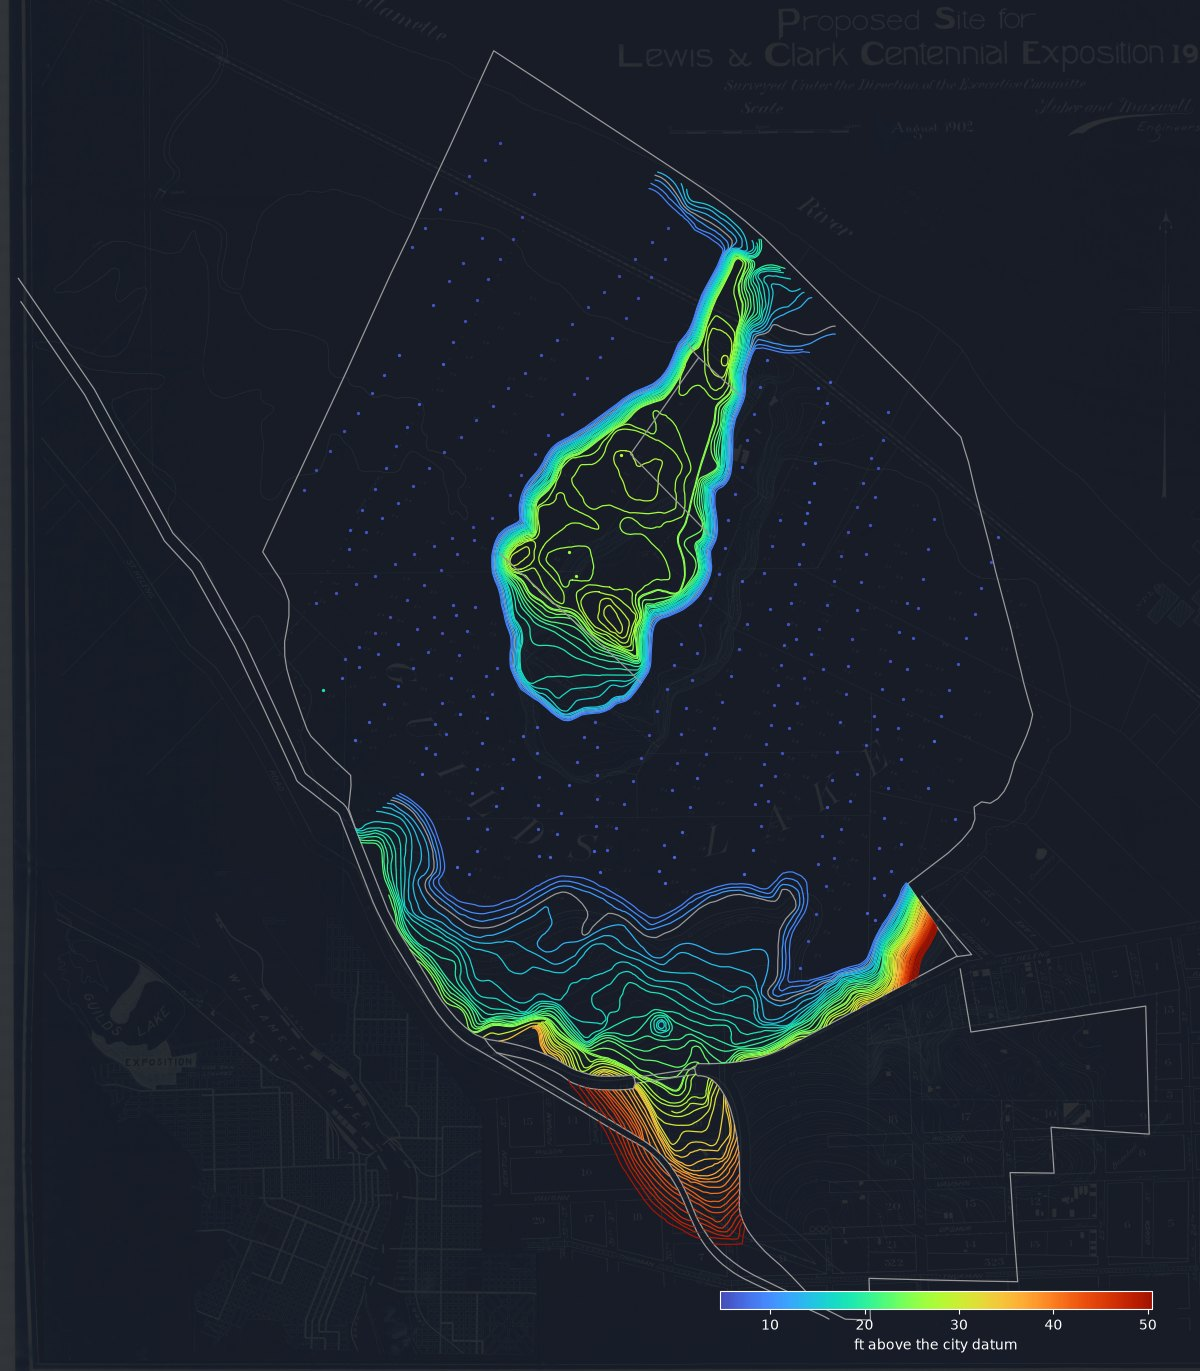
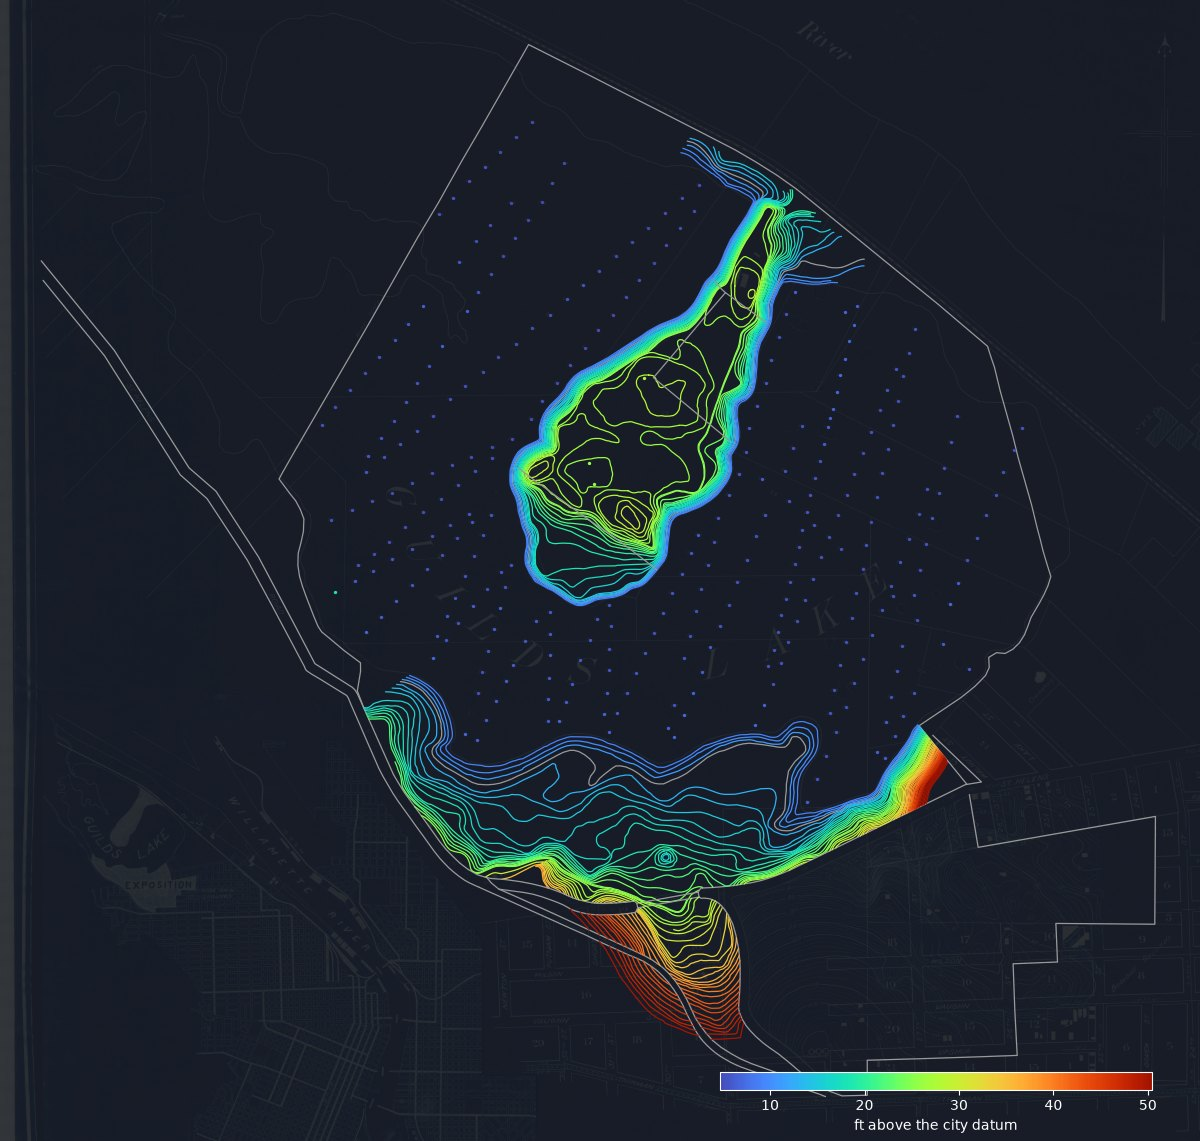
Blender relief pipeline; Huber card on the current plan 9 georeference
- relief_prep.py: the whole sheet as flat paper with only its surveyed ground
  raised (16-bit height map in the sheet's own frame, eased to the paper at
  the footprint edge, slope-capped). Huber's relief is interpolated from its
  own traced lines and soundings only; untraced ground stays paper.
- relief_render.py: headless Blender Cycles render, scan as the surface, low
  sun from the sheet's upper left, orthographic straight down.
- topo_cards.py: Huber now uses the 14-corner .p6fit.points fit the traces
  were made on (the old 3-GCP file shifted the lake end); Huber card
  re-rendered.
- build/ ignored (relief intermediates).

diff --git a/scripts/figures/relief_prep.py b/scripts/figures/relief_prep.py
@@ -1,0 +1,136 @@
+r"""Inputs for the Blender relief renders: the whole survey sheet as a flat sheet of paper, with only the ground it
+surveys rising out of it.
+
+    python scripts/figures/relief_prep.py <survey_id> [--width 4096] [--feather 150] [--bevel 0.12]
+
+Writes to build/relief/<id>/ (ignored by git):
+  texture.jpg     the sheet as printed (whole sheet, at most 8192 px wide)
+  height.png      16-bit height map on the same frame: 0 = the paper, 65535 = the highest ground
+  relief.json     sheet size in feet, height range, the paper's level on the city datum, how it was made
+The height is the survey's reconstructed ground (topo_cards.SURFACES) inside its footprint, measured up from the
+lowest ground there (so the lake bed / lowest contour sits on the paper), and eased down to the paper over the last
+`feather` feet inside the footprint, and nowhere steeper than `bevel` from the edge, so the survey doesn't stand on
+a cliff where its footprint cuts across high ground. Everything outside stays flat paper.
+Use relief_render.py to render it.
+"""
+import argparse
+import json
+import sys
+from pathlib import Path
+
+import cv2
+import numpy as np
+from PIL import Image
+from pyogrio.raw import read
+from shapely import from_wkb
+
+sys.path.insert(0, str(Path(__file__).resolve().parent))
+import topo_cards as TC  # noqa: E402  the scans, their georeferences and the surfaces
+
+Image.MAX_IMAGE_PIXELS = None
+BUILD = TC.S.HERE / "build" / "relief"
+OWN_LINES = {"huber_1902"}   # surveys whose relief is interpolated straight from their own traced lines and heights
+                             # (Huber's part of combined_dem predates the re-fitted plan 9 georeference)
+NEAR_FT = 300               # how far from a traced line or height the interpolated ground may reach
+SURFACE_KINDS = {"contour", "index", "intermediate", "sounding", "spot"}
+
+
+def from_own_lines(sid, A, k, W, H):
+    """Ground interpolated (linear, Delaunay) from the survey's contours and spot heights, in height-map pixels."""
+    from pyogrio import list_layers
+    from scipy.interpolate import LinearNDInterpolator
+    Ai = np.linalg.inv(np.vstack([A, [0, 0, 1]]))[:2]
+    pts, zs = [], []
+    for L, _ in list_layers(TC.GPKG):
+        if not L.startswith(sid):
+            continue
+        m, _, g, d = read(TC.GPKG, layer=L)
+        f = dict(zip(m["fields"], d))
+        for q, e, kd in zip(from_wkb(g), f["elev_city"], f["kind"]):
+            if e is None or not np.isfinite(e) or kd not in SURFACE_KINDS:
+                continue
+            for part in getattr(q, "geoms", [q]):
+                if part.geom_type == "Point":
+                    xy = np.array([[part.x, part.y]])
+                else:                                        # densify every ~8 ft along the line
+                    n = max(2, int(part.length / 8))
+                    xy = np.array([part.interpolate(t, normalized=True).coords[0] for t in np.linspace(0, 1, n)])
+                pts.append((xy @ Ai[:, :2].T + Ai[:, 2]) / k)
+                zs.append(np.full(len(xy), float(e)))
+    P, Z = np.vstack(pts), np.concatenate(zs)
+    f2 = 2                                                   # interpolate at half resolution, then scale up
+    gx, gy = np.meshgrid((np.arange(W // f2) + 0.5) * f2, (np.arange(H // f2) + 0.5) * f2)
+    z = LinearNDInterpolator(P, Z)(gx, gy).astype(np.float32)
+    ok = np.isfinite(z)
+    zf = cv2.GaussianBlur(np.where(ok, z, 0), (0, 0), 2.0) / np.maximum(cv2.GaussianBlur(ok.astype(np.float32), (0, 0), 2.0), 1e-6)
+    z = np.where(ok, zf, np.nan)                             # soften the flat Delaunay terraces between contours
+    z = cv2.resize(z, (W, H), interpolation=cv2.INTER_LINEAR)
+    # only near what was traced: the triangulation's long edges across untraced ground are not the survey
+    seen = np.full((H, W), 255, np.uint8)
+    ij = np.round(P).astype(int)
+    ok = (ij[:, 0] >= 0) & (ij[:, 0] < W) & (ij[:, 1] >= 0) & (ij[:, 1] < H)
+    seen[ij[ok, 1], ij[ok, 0]] = 0
+    near = cv2.distanceTransform(seen, cv2.DIST_L2, 5) * np.hypot(A[0, 0], A[1, 0]) * k <= NEAR_FT
+    return np.where(near, z, np.nan)
+
+
+def prep(sid, width, feather_ft, bevel):
+    img, kind, ref, dx, dy = TC.SCANS[sid]
+    A = TC.affine_from(kind, ref, 1)
+    A[:, 2] += (dx, dy)                                      # sheet (col, row, 1) -> (E, N)
+    w, h = Image.open(img).size
+    out = BUILD / sid
+    out.mkdir(parents=True, exist_ok=True)
+    # texture: the whole sheet
+    a = cv2.imread(str(img), cv2.IMREAD_COLOR)
+    if a.shape[1] > 8192:
+        a = cv2.resize(a, (8192, round(a.shape[0] * 8192 / a.shape[1])), interpolation=cv2.INTER_AREA)
+    cv2.imwrite(str(out / "texture.jpg"), a, [cv2.IMWRITE_JPEG_QUALITY, 92])
+    del a
+    # height map on the sheet's own pixel frame
+    W = min(width, w)
+    H = round(h * W / w)
+    k = w / W                                                # sheet pixels per height-map pixel
+    jj, ii = np.meshgrid((np.arange(W) + 0.5) * k, (np.arange(H) + 0.5) * k)
+    gx = (A[0, 0] * jj + A[0, 1] * ii + A[0, 2]).astype(np.float32)
+    gy = (A[1, 0] * jj + A[1, 1] * ii + A[1, 2]).astype(np.float32)
+    if sid in OWN_LINES:                                     # only what is traced on this sheet rises; untraced ground
+        z = from_own_lines(sid, A, k, W, H)                  # stays paper until it is traced
+    else:
+        z = np.full((H, W), np.nan, np.float32)
+        for name, dz in TC.SURFACES[sid]:
+            z = np.where(np.isfinite(z), z, TC.sample(name, gx, gy) - dz)
+    m, _, g, d = read(TC.GPKG, layer="surveys")
+    fps = dict(zip(dict(zip(m["fields"], d))["survey_id"], from_wkb(g)))
+    Ai = np.linalg.inv(np.vstack([A, [0, 0, 1]]))[:2]
+    mk = np.zeros((H, W), np.uint8)
+    cr = (np.asarray(fps[sid].exterior.coords) @ Ai[:, :2].T + Ai[:, 2]) / k
+    cv2.fillPoly(mk, [cr.round().astype(np.int32)], 1)
+    inside = (mk > 0) & np.isfinite(z)
+    ft_px = np.hypot(A[0, 0], A[1, 0]) * k                   # feet per height-map pixel
+    base = float(np.percentile(z[inside], 0.5))
+    rel = np.where(inside, np.clip(z - base, 0, None), 0).astype(np.float32)
+    dist = cv2.distanceTransform(inside.astype(np.uint8), cv2.DIST_L2, 5) * ft_px
+    t = np.clip(dist / feather_ft, 0, 1)
+    rel *= t * t * (3 - 2 * t)                               # smoothstep down to the paper at the footprint edge
+    rel = np.minimum(rel, dist * bevel)                      # and where the edge cuts high ground, a bevel no steeper
+                                                             # than `bevel` (rise per foot) instead of a cliff
+    rel = cv2.GaussianBlur(rel, (0, 0), 0.7)
+    top = float(rel.max())
+    cv2.imwrite(str(out / "height.png"), np.round(rel / top * 65535).astype(np.uint16))
+    meta = {"survey_id": sid, "sheet_px": [w, h], "height_px": [W, H], "ft_per_height_px": ft_px,
+            "sheet_ft": [w * ft_px / k, h * ft_px / k], "relief_ft": top, "paper_level_city_ft": base,
+            "feather_ft": feather_ft, "bevel": bevel, "surfaces": "own traced lines" if sid in OWN_LINES else TC.SURFACES[sid]}
+    (out / "relief.json").write_text(json.dumps(meta, indent=1))
+    print(sid, f"sheet {meta['sheet_ft'][0]:.0f} x {meta['sheet_ft'][1]:.0f} ft; relief {top:.0f} ft above "
+          f"{base:.1f}; height map {W}x{H}")
+
+
+if __name__ == "__main__":
+    ap = argparse.ArgumentParser()
+    ap.add_argument("survey_id")
+    ap.add_argument("--width", type=int, default=4096)
+    ap.add_argument("--feather", type=float, default=150.0)
+    ap.add_argument("--bevel", type=float, default=0.12)
+    a = ap.parse_args()
+    prep(a.survey_id, a.width, a.feather, a.bevel)

diff --git a/scripts/figures/relief_render.py b/scripts/figures/relief_render.py
@@ -1,0 +1,126 @@
+r"""Render a survey sheet as shaded relief in Blender (Cycles), straight down, from relief_prep.py's inputs.
+
+    "C:\Program Files\Blender Foundation\Blender 5.2\blender.exe" -b -P scripts/figures/relief_render.py -- <survey_id>
+        [--vex 3] [--sun-alt 30] [--sun-az 315] [--width 3000] [--samples 96] [--mesh 1800] [--out PATH]
+
+The sheet is a plane at true proportions with the scan as its surface; build/relief/<id>/height.png pushes up only
+the surveyed ground (the rest is flat paper). A low sun from the sheet's upper left (--sun-az is measured clockwise
+from the top of the sheet, so 315 = upper left) rakes across it and a faint sky fills the shadows; the orthographic
+camera looks straight down. Colours are kept as printed (Standard view transform). Writes
+topography/renders/<id>-relief.jpg unless --out is given.
+"""
+import json
+import math
+import sys
+from pathlib import Path
+
+import bpy
+from mathutils import Vector
+
+HERE = Path(__file__).resolve().parents[2]
+args = sys.argv[sys.argv.index("--") + 1:] if "--" in sys.argv else []
+sid = args[0]
+opt = {"--vex": 3.0, "--sun-alt": 30.0, "--sun-az": 315.0, "--width": 3000, "--samples": 96, "--mesh": 1800,
+       "--out": str(HERE / "topography" / "renders" / f"{sid}-relief.jpg")}
+for i in range(1, len(args) - 1, 2):
+    opt[args[i]] = type(opt[args[i]])(args[i + 1])
+src = HERE / "build" / "relief" / sid
+meta = json.loads((src / "relief.json").read_text())
+
+# a clean scene
+bpy.ops.wm.read_factory_settings(use_empty=True)
+scene = bpy.context.scene
+U = 1000.0                                                   # feet per Blender unit
+Wp, Hp = meta["sheet_ft"][0] / U, meta["sheet_ft"][1] / U
+
+# the sheet: a UV'd grid, displaced by the height map, scan as its colour
+nx = int(opt["--mesh"])
+ny = max(2, round(nx * Hp / Wp))
+bpy.ops.mesh.primitive_grid_add(x_subdivisions=nx, y_subdivisions=ny, size=1, calc_uvs=True)
+sheet = bpy.context.active_object
+sheet.scale = (Wp, Hp, 1)
+bpy.ops.object.transform_apply(scale=True)
+hmap = bpy.data.images.load(str(src / "height.png"))
+hmap.colorspace_settings.name = "Non-Color"
+tex = bpy.data.textures.new("height", type="IMAGE")
+tex.image = hmap
+tex.extension = "EXTEND"
+tex.use_interpolation = True
+mod = sheet.modifiers.new("relief", "DISPLACE")
+mod.texture = tex
+mod.texture_coords = "UV"
+mod.mid_level = 0.0
+mod.direction = "Z"
+mod.strength = opt["--vex"] * meta["relief_ft"] / U
+bpy.ops.object.shade_smooth()
+
+mat = bpy.data.materials.new("sheet")
+mat.use_nodes = True
+nt = mat.node_tree
+bsdf = nt.nodes["Principled BSDF"]
+img = nt.nodes.new("ShaderNodeTexImage")
+img.image = bpy.data.images.load(str(src / "texture.jpg"))
+img.interpolation = "Cubic"
+nt.links.new(img.outputs["Color"], bsdf.inputs["Base Color"])
+bsdf.inputs["Roughness"].default_value = 0.9
+for name in ("Specular IOR Level", "Specular"):
+    if name in bsdf.inputs:
+        bsdf.inputs[name].default_value = 0.15
+        break
+sheet.data.materials.append(mat)
+
+# light: a low sun from the sheet's upper left, soft-edged; a faint even sky for the shadows
+alt, az = math.radians(opt["--sun-alt"]), math.radians(opt["--sun-az"])
+toward = Vector((math.sin(az) * math.cos(alt), math.cos(az) * math.cos(alt), math.sin(alt)))   # to the sun (y = sheet top)
+sun_data = bpy.data.lights.new("sun", type="SUN")
+sun_data.energy = 3.6
+sun_data.angle = math.radians(3.0)
+sun = bpy.data.objects.new("sun", sun_data)
+scene.collection.objects.link(sun)
+sun.rotation_euler = toward.to_track_quat("Z", "Y").to_euler()        # the lamp shines down its -Z
+world = bpy.data.worlds.new("sky")
+world.use_nodes = True
+world.node_tree.nodes["Background"].inputs["Color"].default_value = (1, 1, 1, 1)
+world.node_tree.nodes["Background"].inputs["Strength"].default_value = 0.42
+scene.world = world
+
+# camera: orthographic, straight down, framing the sheet exactly
+cam_data = bpy.data.cameras.new("cam")
+cam_data.type = "ORTHO"
+cam_data.ortho_scale = max(Wp, Hp)
+cam_data.clip_end = 100
+cam = bpy.data.objects.new("cam", cam_data)
+cam.location = (0, 0, 20)
+scene.collection.objects.link(cam)
+scene.camera = cam
+r = scene.render
+r.resolution_x = int(opt["--width"])
+r.resolution_y = round(int(opt["--width"]) * Hp / Wp)
+r.resolution_percentage = 100
+r.image_settings.file_format = "JPEG"
+r.image_settings.quality = 90
+scene.view_settings.view_transform = "Standard"
+scene.view_settings.look = "None"
+
+# Cycles on the GPU when there is one
+r.engine = "CYCLES"
+prefs = bpy.context.preferences.addons["cycles"].preferences
+for kind in ("OPTIX", "CUDA", "HIP", "ONEAPI", "METAL"):
+    try:
+        prefs.compute_device_type = kind
+        prefs.get_devices()
+        gpus = [dv for dv in prefs.devices if dv.type != "CPU"]
+        if gpus:
+            for dv in prefs.devices:
+                dv.use = dv.type != "CPU"
+            scene.cycles.device = "GPU"
+            break
+    except Exception:
+        continue
+scene.cycles.samples = int(opt["--samples"])
+scene.cycles.use_denoising = True
+
+Path(opt["--out"]).parent.mkdir(parents=True, exist_ok=True)
+r.filepath = opt["--out"]
+bpy.ops.render.render(write_still=True)
+print("RENDERED", opt["--out"], r.resolution_x, r.resolution_y, "vex", opt["--vex"], "device", scene.cycles.device)

diff --git a/scripts/figures/topo_cards.py b/scripts/figures/topo_cards.py
@@ -48,7 +48,7 @@ SCANS = {   # survey_id: (image, georeference kind, georeference file, shift E, 
     "usgs_1896": (G / "olmsted_02640-6_usgs1896_willamette_heights_local.png", "world",
                   G / "olmsted_02640-6_usgs1896_willamette_heights_local.pgw", 308, 57),
     "huber_1902": (G / "job02399_plan09_huber-maxwell-survey-blueprint.jpg", "points",
-                   G / "job02399_plan09_huber-maxwell-survey-blueprint.jpg.points", 20, -10),
+                   G / "job02399_plan09_huber-maxwell-survey-blueprint.jpg.p6fit.points", 20, -10),   # the 14-corner fit the traces use
     "olmsted_p6_1903": (G / "job02399_plan06_topographic-survey_stitched.tif", "points",
                         G / "job02399_plan06_topographic-survey_stitched.tif.points", 0, 0),
     "m1698_1906": (G / "M1698_blytheswood-park-contour-map-1906.jpg", "world",
